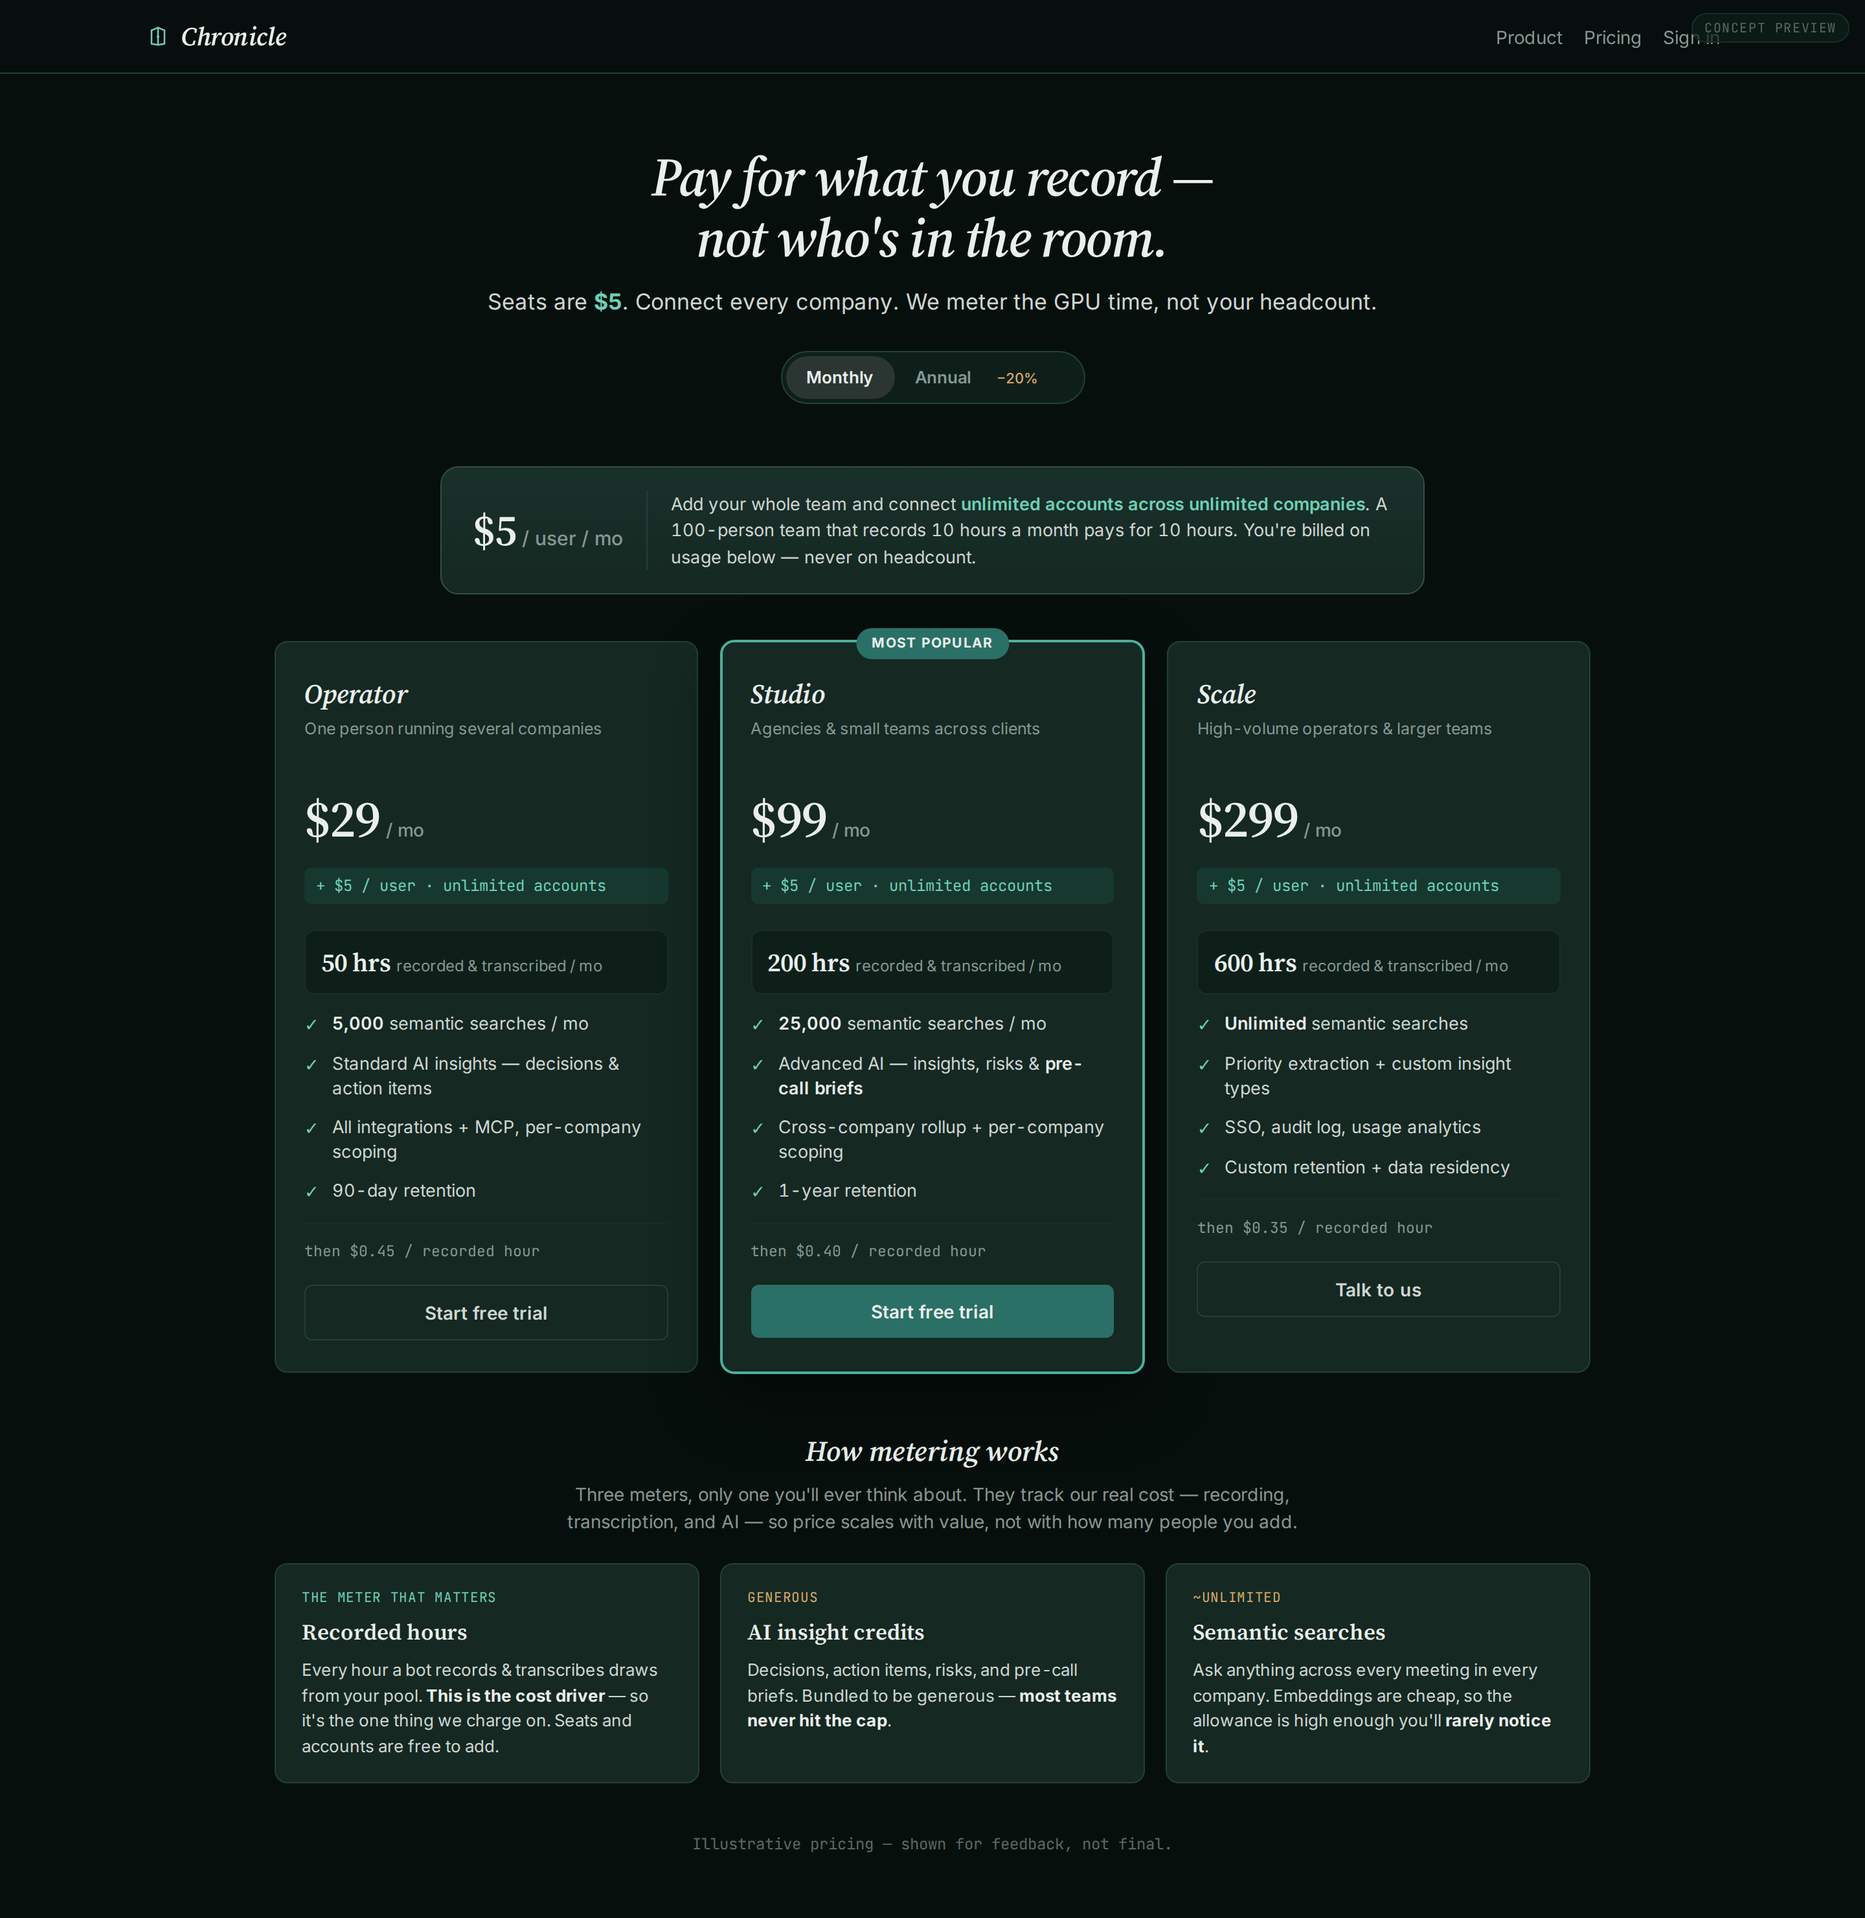
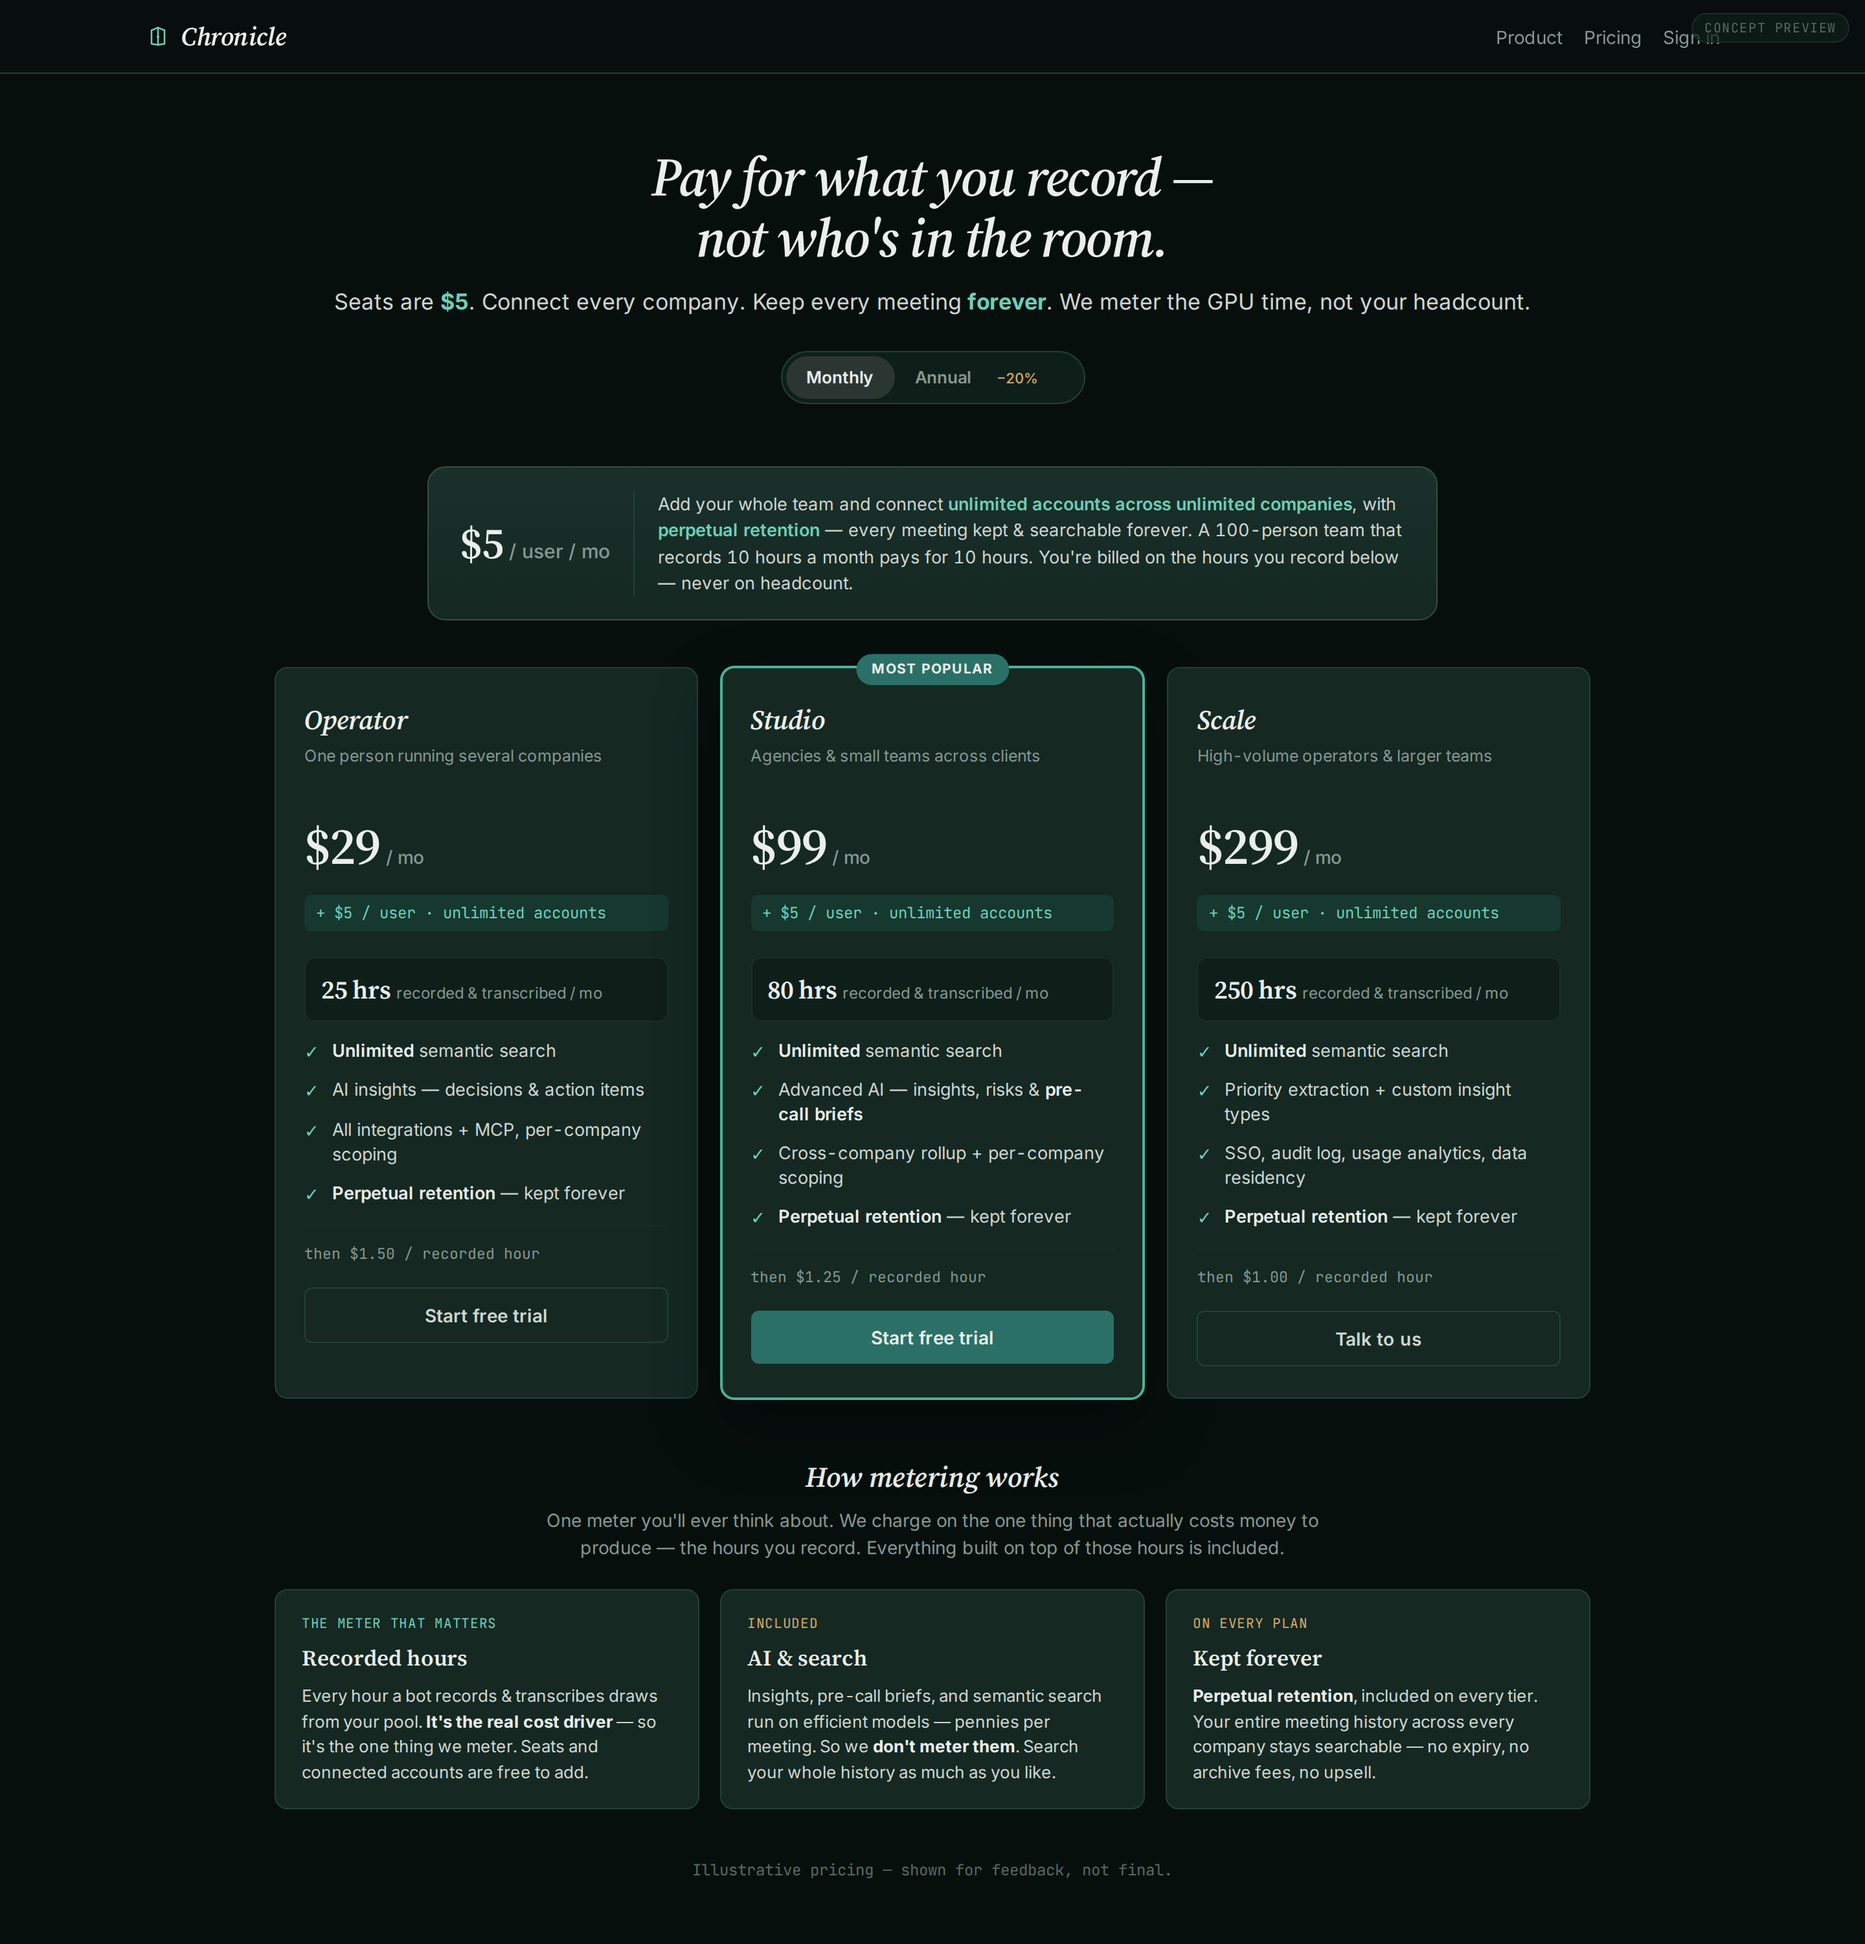
pricing: ground numbers in real COGS; perpetual retention on all tiers
Overage was below the ~$0.66/recorded-hr COGS (Recall $0.50 record + $0.15 transcribe + ~$0.01 gpt-4o-mini + embeddings). Reset overage to $1.00-1.50/hr and bundles stay margin-positive at full utilization. Retention now perpetual on every tier (text+embeddings ~free to keep forever); $5 seat recovers the fixed AWS cluster.

diff --git a/chronicle/3-pricing.html b/chronicle/3-pricing.html
@@ -40,7 +40,7 @@ a{color:inherit;text-decoration:none}
 .toggle span.on{background:var(--neutral-soft);color:var(--ink)}
 .toggle .save{color:var(--brass-on-soft);font-weight:500;font-size:11px;margin-left:4px}
 
-.base{max-width:760px;margin:26px auto 6px;display:flex;align-items:center;gap:18px;background:linear-gradient(180deg,var(--card-top),var(--card));border:1px solid #33503f;border-radius:var(--r-panel);padding:18px 24px}
+.base{max-width:780px;margin:26px auto 6px;display:flex;align-items:center;gap:18px;background:linear-gradient(180deg,var(--card-top),var(--card));border:1px solid #33503f;border-radius:var(--r-panel);padding:18px 24px}
 .base .big{font-family:var(--serif);font-size:34px;font-weight:600;color:var(--ink);white-space:nowrap}
 .base .big small{font-size:15px;color:var(--muted);font-family:var(--sans);font-weight:500}
 .base .txt{font-size:13.5px;color:var(--ink-soft);line-height:1.5;border-left:1px solid var(--rule);padding-left:18px}
@@ -70,7 +70,7 @@ a{color:inherit;text-decoration:none}
 
 .meter{padding:34px 0 8px}
 .meter h2{font-family:var(--serif);font-style:italic;font-size:22px;font-weight:600;text-align:center;margin-bottom:6px}
-.meter .lead{text-align:center;color:var(--muted);font-size:14px;max-width:620px;margin:0 auto 22px}
+.meter .lead{text-align:center;color:var(--muted);font-size:14px;max-width:640px;margin:0 auto 22px}
 .mcards{display:grid;grid-template-columns:repeat(3,1fr);gap:16px}
 .mcard{background:var(--card);border:1px solid var(--rule);border-radius:var(--r-card);padding:18px 20px}
 .mcard .tag{font-family:var(--mono);font-size:10.5px;letter-spacing:.08em;text-transform:uppercase;color:var(--brass-on-soft)}
@@ -97,13 +97,13 @@ a{color:inherit;text-decoration:none}
 <main class="wrap">
   <section class="hero">
     <h1>Pay for what you record —<br>not who's in the room.</h1>
-    <p>Seats are <b>$5</b>. Connect every company. We meter the GPU time, not your headcount.</p>
+    <p>Seats are <b>$5</b>. Connect every company. Keep every meeting <b>forever</b>. We meter the GPU time, not your headcount.</p>
     <div class="toggle"><span class="on">Monthly</span><span>Annual<span class="save">−20%</span></span></div>
   </section>
 
   <div class="base">
     <div class="big">$5<small> / user / mo</small></div>
-    <div class="txt">Add your whole team and connect <b>unlimited accounts across unlimited companies</b>. A 100-person team that records 10 hours a month pays for 10 hours. You're billed on usage below — never on headcount.</div>
+    <div class="txt">Add your whole team and connect <b>unlimited accounts across unlimited companies</b>, with <b>perpetual retention</b> — every meeting kept &amp; searchable forever. A 100-person team that records 10 hours a month pays for 10 hours. You're billed on the hours you record below — never on headcount.</div>
   </div>
 
   <section class="tiers">
@@ -113,13 +113,13 @@ a{color:inherit;text-decoration:none}
       <div class="price"><span class="amt">$29</span><span class="per"> / mo</span></div>
       <div class="seat">+ $5 / user · unlimited accounts</div>
       <ul class="feats">
-        <li class="hero-line"><div><span class="n">50 hrs</span> <span class="u">recorded &amp; transcribed / mo</span></div></li>
-        <li><span class="ck">✓</span><span><b>5,000</b> semantic searches / mo</span></li>
-        <li><span class="ck">✓</span><span>Standard AI insights — decisions &amp; action items</span></li>
+        <li class="hero-line"><div><span class="n">25 hrs</span> <span class="u">recorded &amp; transcribed / mo</span></div></li>
+        <li><span class="ck">✓</span><span><b>Unlimited</b> semantic search</span></li>
+        <li><span class="ck">✓</span><span>AI insights — decisions &amp; action items</span></li>
         <li><span class="ck">✓</span><span>All integrations + MCP, per-company scoping</span></li>
-        <li><span class="ck">✓</span><span>90-day retention</span></li>
+        <li><span class="ck">✓</span><span><b>Perpetual retention</b> — kept forever</span></li>
       </ul>
-      <div class="over">then $0.45 / recorded hour</div>
+      <div class="over">then $1.50 / recorded hour</div>
       <div class="cta ghost">Start free trial</div>
     </div>
 
@@ -130,13 +130,13 @@ a{color:inherit;text-decoration:none}
       <div class="price"><span class="amt">$99</span><span class="per"> / mo</span></div>
       <div class="seat">+ $5 / user · unlimited accounts</div>
       <ul class="feats">
-        <li class="hero-line"><div><span class="n">200 hrs</span> <span class="u">recorded &amp; transcribed / mo</span></div></li>
-        <li><span class="ck">✓</span><span><b>25,000</b> semantic searches / mo</span></li>
+        <li class="hero-line"><div><span class="n">80 hrs</span> <span class="u">recorded &amp; transcribed / mo</span></div></li>
+        <li><span class="ck">✓</span><span><b>Unlimited</b> semantic search</span></li>
         <li><span class="ck">✓</span><span>Advanced AI — insights, risks &amp; <b>pre-call briefs</b></span></li>
         <li><span class="ck">✓</span><span>Cross-company rollup + per-company scoping</span></li>
-        <li><span class="ck">✓</span><span>1-year retention</span></li>
+        <li><span class="ck">✓</span><span><b>Perpetual retention</b> — kept forever</span></li>
       </ul>
-      <div class="over">then $0.40 / recorded hour</div>
+      <div class="over">then $1.25 / recorded hour</div>
       <div class="cta solid">Start free trial</div>
     </div>
 
@@ -146,35 +146,35 @@ a{color:inherit;text-decoration:none}
       <div class="price"><span class="amt">$299</span><span class="per"> / mo</span></div>
       <div class="seat">+ $5 / user · unlimited accounts</div>
       <ul class="feats">
-        <li class="hero-line"><div><span class="n">600 hrs</span> <span class="u">recorded &amp; transcribed / mo</span></div></li>
-        <li><span class="ck">✓</span><span><b>Unlimited</b> semantic searches</span></li>
+        <li class="hero-line"><div><span class="n">250 hrs</span> <span class="u">recorded &amp; transcribed / mo</span></div></li>
+        <li><span class="ck">✓</span><span><b>Unlimited</b> semantic search</span></li>
         <li><span class="ck">✓</span><span>Priority extraction + custom insight types</span></li>
-        <li><span class="ck">✓</span><span>SSO, audit log, usage analytics</span></li>
-        <li><span class="ck">✓</span><span>Custom retention + data residency</span></li>
+        <li><span class="ck">✓</span><span>SSO, audit log, usage analytics, data residency</span></li>
+        <li><span class="ck">✓</span><span><b>Perpetual retention</b> — kept forever</span></li>
       </ul>
-      <div class="over">then $0.35 / recorded hour</div>
+      <div class="over">then $1.00 / recorded hour</div>
       <div class="cta ghost">Talk to us</div>
     </div>
   </section>
 
   <section class="meter">
     <h2>How metering works</h2>
-    <div class="lead">Three meters, only one you'll ever think about. They track our real cost — recording, transcription, and AI — so price scales with value, not with how many people you add.</div>
+    <div class="lead">One meter you'll ever think about. We charge on the one thing that actually costs money to produce — the hours you record. Everything built on top of those hours is included.</div>
     <div class="mcards">
       <div class="mcard prime">
         <div class="tag">The meter that matters</div>
         <h3>Recorded hours</h3>
-        <p>Every hour a bot records &amp; transcribes draws from your pool. <b>This is the cost driver</b> — so it's the one thing we charge on. Seats and accounts are free to add.</p>
+        <p>Every hour a bot records &amp; transcribes draws from your pool. <b>It's the real cost driver</b> — so it's the one thing we meter. Seats and connected accounts are free to add.</p>
       </div>
       <div class="mcard">
-        <div class="tag">Generous</div>
-        <h3>AI insight credits</h3>
-        <p>Decisions, action items, risks, and pre-call briefs. Bundled to be generous — <b>most teams never hit the cap</b>.</p>
+        <div class="tag">Included</div>
+        <h3>AI &amp; search</h3>
+        <p>Insights, pre-call briefs, and semantic search run on efficient models — pennies per meeting. So we <b>don't meter them</b>. Search your whole history as much as you like.</p>
       </div>
       <div class="mcard">
-        <div class="tag">~Unlimited</div>
-        <h3>Semantic searches</h3>
-        <p>Ask anything across every meeting in every company. Embeddings are cheap, so the allowance is high enough you'll <b>rarely notice it</b>.</p>
+        <div class="tag">On every plan</div>
+        <h3>Kept forever</h3>
+        <p><b>Perpetual retention</b>, included on every tier. Your entire meeting history across every company stays searchable — no expiry, no archive fees, no upsell.</p>
       </div>
     </div>
   </section>
